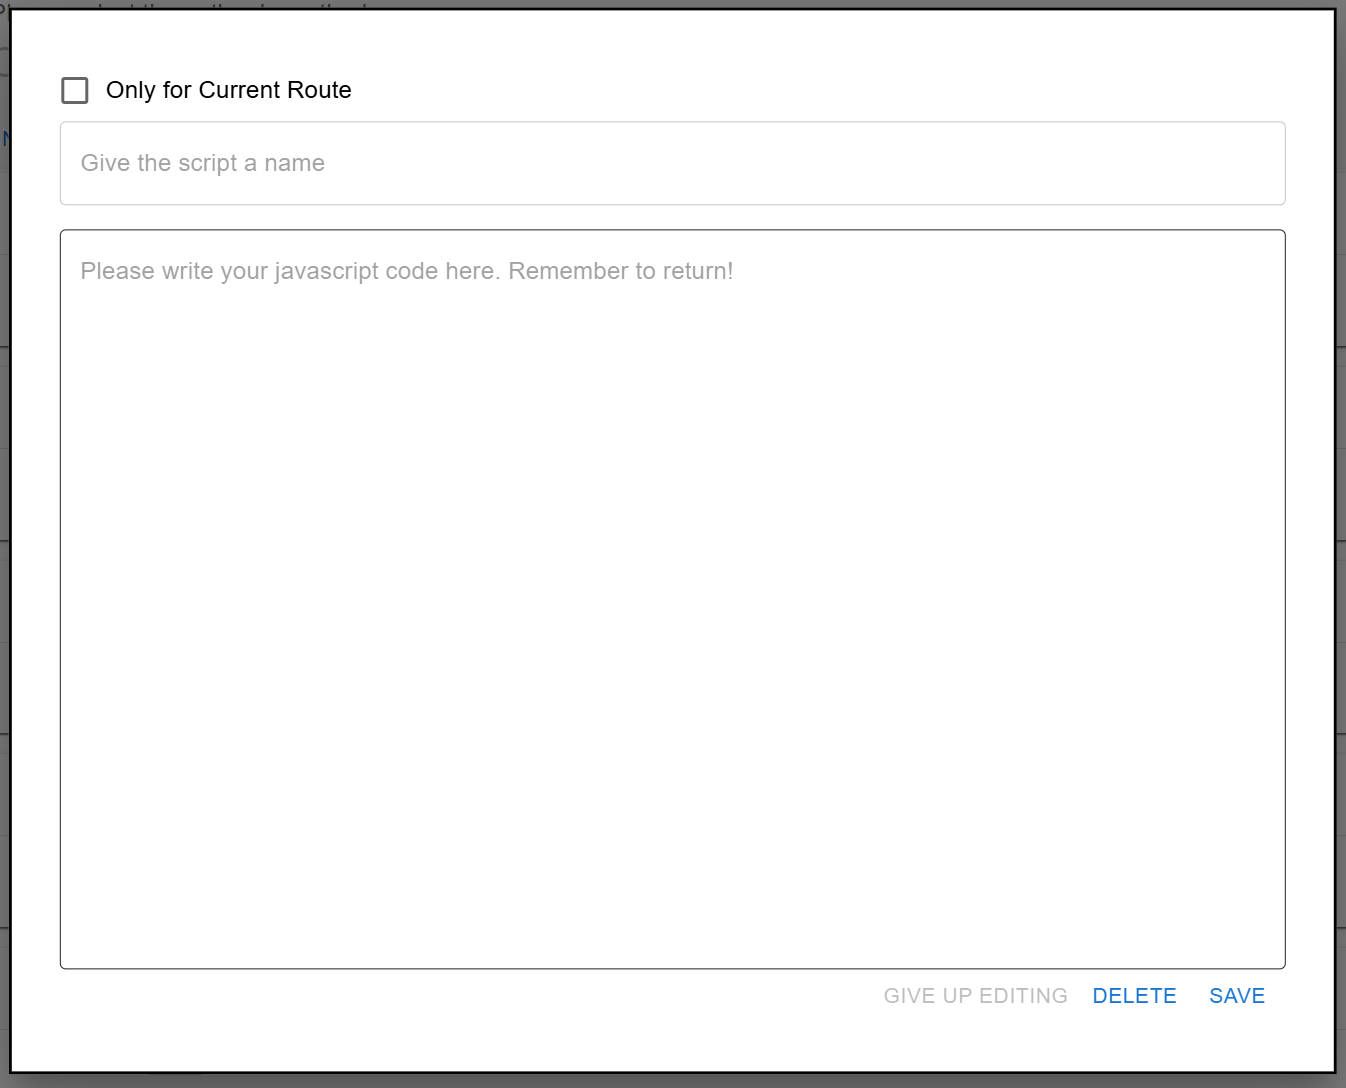
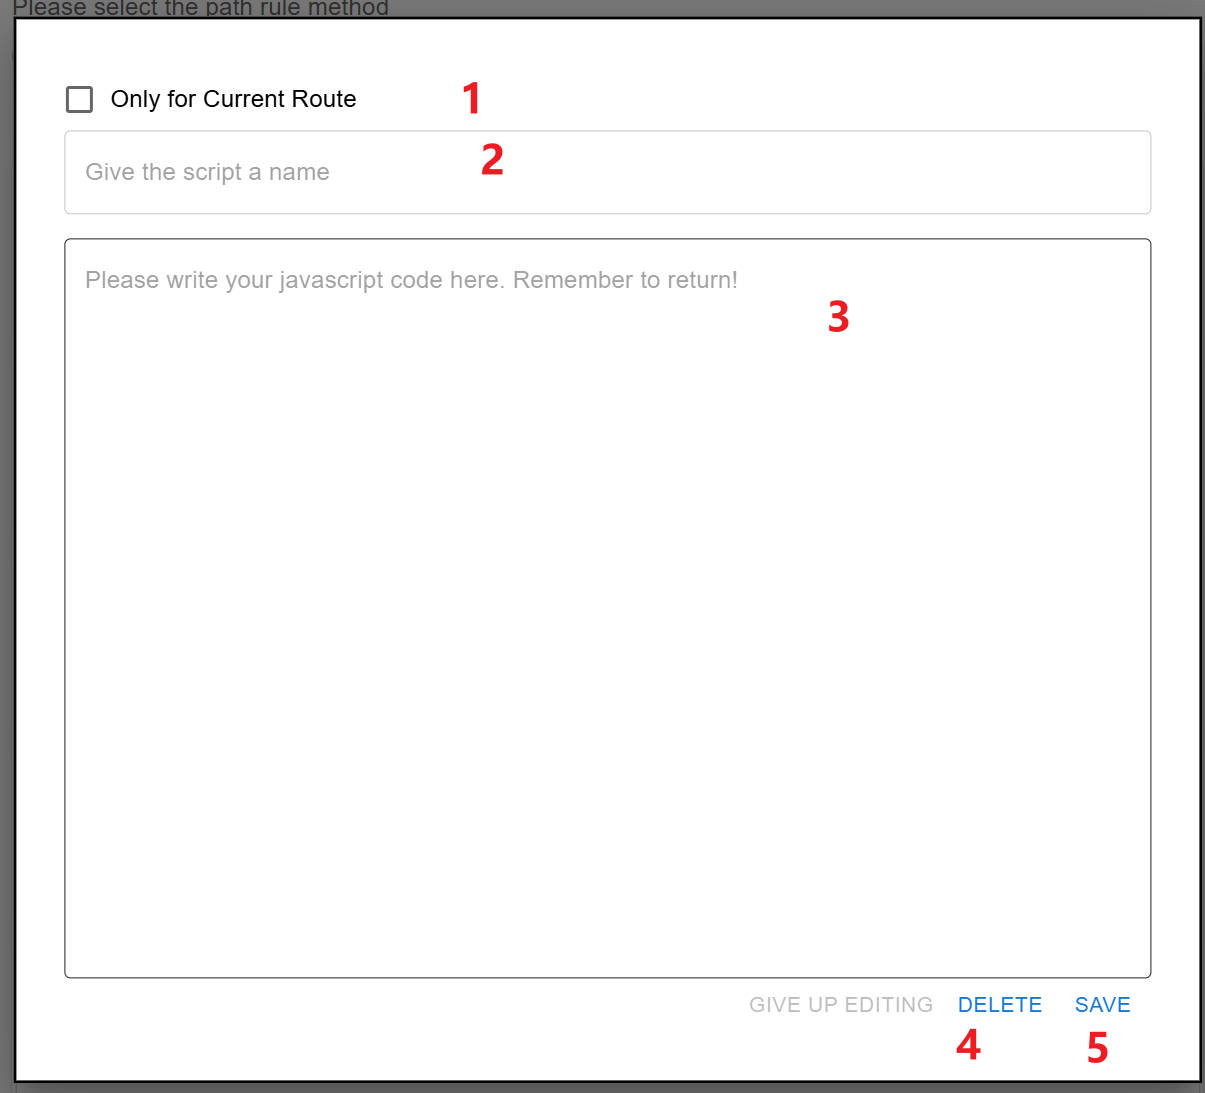
v1.0.13

diff --git a/src/components/doc-parts/script-new/script-new.tsx b/src/components/doc-parts/script-new/script-new.tsx
@@ -1,0 +1,57 @@
+import { Box } from "@mui/material"
+import { AnchorAnimation } from "@src/components/doc-components/anchor-animation/AnchorAnimation"
+import { MenuAnchorComponent } from "@src/components/doc-components/menu/DocMenu"
+import { DocTitle } from "@src/components/doc-components/title/DocTitle"
+import { Trans, useTranslation } from "react-i18next"
+
+const anchor = "script-new"
+
+function Menu() {
+    const { t } = useTranslation("doc/components/doc-parts/script-new/content")
+    return <MenuAnchorComponent anchor={anchor}>
+        {t("menu.main")}
+    </MenuAnchorComponent>
+}
+
+function Doc() {
+    const { t } = useTranslation("doc/components/doc-parts/script-new/content")
+    return <AnchorAnimation anchor={anchor}>
+        <Box>
+            <DocTitle>{t("doc.title")}</DocTitle>
+            <Box>
+                <img className="autoImage" src={`/images/en/configuration-script-new.jpg`} />
+            </Box>
+            <ol style={{ "paddingInlineStart": "1rem" }}>
+                <li>
+                    <Box>
+                        <Trans t={t} i18nKey="doc.name.title"></Trans>
+                        <Trans t={t} i18nKey="doc.name.explain"></Trans>
+                    </Box>
+                </li>
+                <li>
+                    <Box>
+                        <Trans t={t} i18nKey="doc.script.title"></Trans>
+                        <Trans t={t} i18nKey="doc.script.explain"></Trans>
+                    </Box>
+                </li>
+                <li>
+                    <Box>
+                        <Trans t={t} i18nKey="doc.delBtn.title"></Trans>
+                        <Trans t={t} i18nKey="doc.delBtn.explain"></Trans>
+                    </Box>
+                </li>
+                <li>
+                    <Box>
+                        <Trans t={t} i18nKey="doc.saveBtn.title"></Trans>
+                        <Trans t={t} i18nKey="doc.saveBtn.explain"></Trans>
+                    </Box>
+                </li>
+            </ol>
+        </Box>
+    </AnchorAnimation>
+}
+
+export const DocScriptNew = {
+    Menu,
+    Doc
+}

diff --git a/src/types/i18n.ts b/src/types/i18n.ts
@@ -12,6 +12,7 @@ import type doc__components__language___selector from '../../i18n-raw/origin/com
 import type doc__components__theme___model from '../../i18n-raw/origin/components/theme-model/content.json'
 import type doc__pages__about from '../../i18n-raw/origin/pages/about/content.json'
 import type doc__components__doc___parts__script___del___save___new from '../../i18n-raw/origin/components/doc-parts/script-del-save-new/content.json'
+import type doc__components__doc___parts__script___new from '../../i18n-raw/origin/components/doc-parts/script-new/content.json'
 
 declare module 'i18next' {
   interface CustomTypeOptions {
@@ -27,7 +28,8 @@ declare module 'i18next' {
       ["doc/components/language-selector/content"]: typeof doc__components__language___selector,
       ["doc/components/theme-model/content"]: typeof doc__components__theme___model,
       ["doc/pages/about/content"]: typeof doc__pages__about,
-      ["doc/components/doc-parts/script-del-save-new/content"]: typeof doc__components__doc___parts__script___del___save___new
+      ["doc/components/doc-parts/script-del-save-new/content"]: typeof doc__components__doc___parts__script___del___save___new,
+      ["doc/components/doc-parts/script-new/content"]: typeof doc__components__doc___parts__script___new
     }
   }
 }

diff --git a/src/components/index/IndexContent.tsx b/src/components/index/IndexContent.tsx
@@ -12,6 +12,7 @@ import { DocGlobalScript } from "../doc-parts/global-script/DocGlobalScript";
 import { DocVariables } from "../doc-parts/doc-variables/DocVariables";
 import { DocRuleMethod } from "../doc-parts/rule-method/RuleMethod";
 import { DocScriptDelSaveNew } from "../doc-parts/script-del-save-new/ScriptDelSaveNew";
+import { DocScriptNew } from "../doc-parts/script-new/script-new";
 
 
 const Root = styled('div')(({ theme }) => {
@@ -72,6 +73,7 @@ function LeftMenu() {
         <DocVariables.Menu />
         <DocRuleMethod.Menu/>
         <DocScriptDelSaveNew.Menu/>
+        <DocScriptNew.Menu/>
     </MenuContainer>
 }
 
@@ -116,6 +118,7 @@ export function IndexContent() {
                         <DocGlobalScript.Doc />
                         <DocRuleMethod.Doc />
                         <DocScriptDelSaveNew.Doc />
+                        <DocScriptNew.Doc />
                         <MediaQuery />
                     </div>
                 </Stack>

diff --git a/src/i18nconf/i18nFileVersion.ts b/src/i18nconf/i18nFileVersion.ts
@@ -1,3 +1,3 @@
 
-    export const i18nFileVersion = "1733629682014"
+    export const i18nFileVersion = "1733630489298"
     
